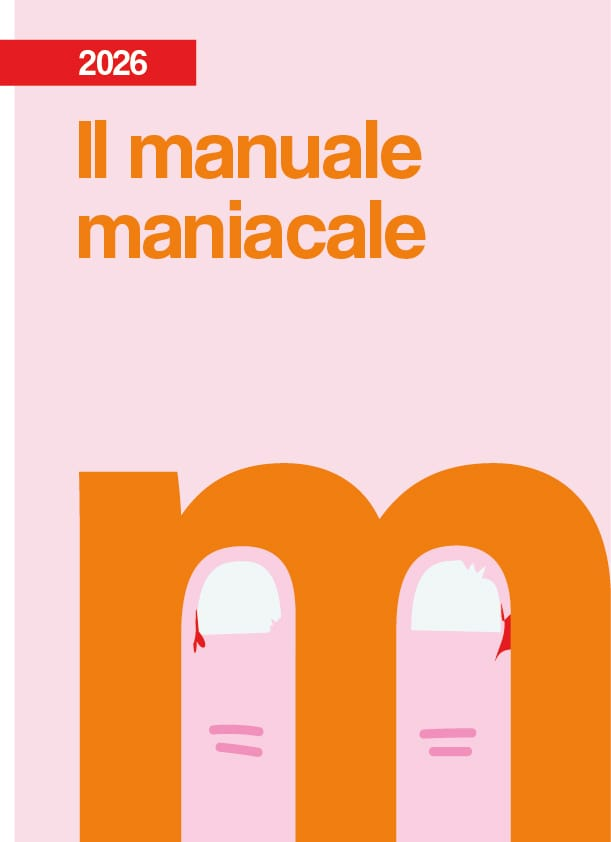
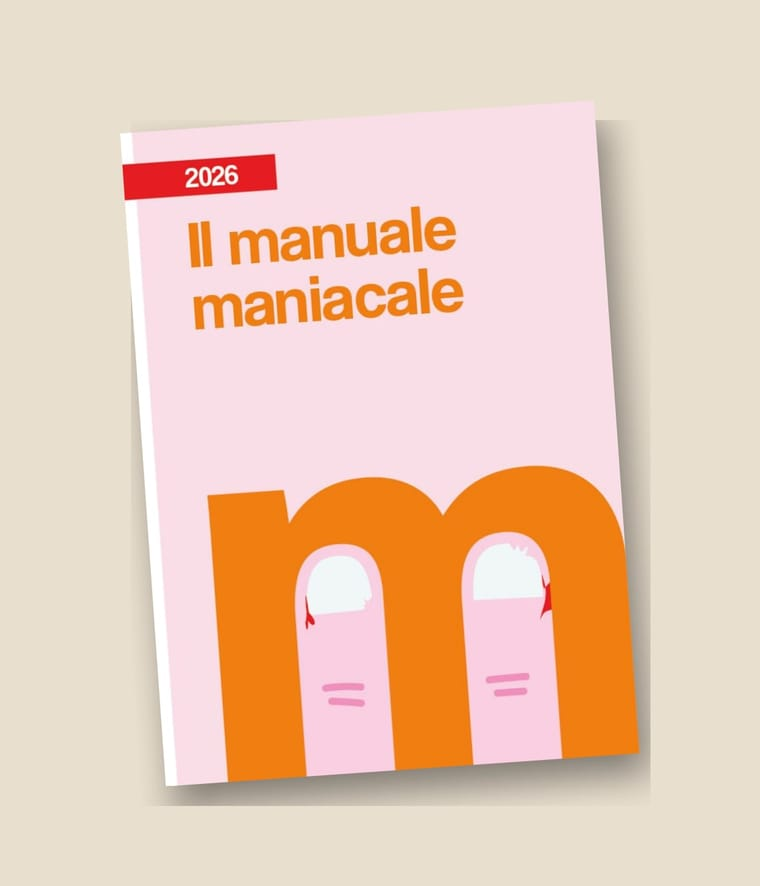
Work section: clickable lightbox, jewel polish, richer galleries
- Gallery images are now buttons that open full-size in a lightbox
  (click backdrop or ESC to close; works on touch); adds an expand badge
  on hover.
- "Jewel" pass on the index: larger lifting thumbnails, tabular index
  numbers, category chips, and a title nudge on hover.
- Move: lead with the login brand moment and the generated editorial
  plan (post cards) instead of only the dense dashboard.
- Berkana: two more business-card shots (five images total).
- Il manuale maniacale: a floated-booklet mockup plus a concept detail
  crop of the bitten-nails "m", so it is no longer a single image.

Claude-Session: https://claude.ai/code/session_01Jnuto5YWZmMVkaLGLvLL8Y

diff --git a/src/App.css b/src/App.css
@@ -1168,33 +1168,48 @@
 }
 .work-row {
   display: grid;
-  grid-template-columns: 52px 148px minmax(0, 1fr) 64px;
+  grid-template-columns: 54px 184px minmax(0, 1fr) 64px;
   align-items: center;
-  gap: clamp(16px, 2.4vw, 32px);
+  gap: clamp(16px, 2.4vw, 34px);
   width: 100%;
-  padding: clamp(16px, 2vw, 24px) clamp(6px, 1vw, 14px);
+  padding: clamp(18px, 2.1vw, 26px) clamp(10px, 1.4vw, 20px);
   border-bottom: 1px solid var(--line);
-  transition: background 0.35s var(--ease-out);
+  border-radius: 18px;
+  transition:
+    background 0.4s var(--ease-out),
+    box-shadow 0.4s var(--ease-out);
 }
 .work-row:hover {
   background: var(--azure-soft);
+  box-shadow: 0 18px 46px -30px rgba(24, 22, 22, 0.5);
 }
 .work-row:focus-visible {
   outline: 3px solid var(--azure-deep);
   outline-offset: -3px;
 }
 .work-num {
-  font-size: 13px;
-  font-weight: 650;
+  font-family: var(--font-display);
+  font-size: 15px;
+  font-weight: 600;
   color: var(--azure-deep);
+  font-variant-numeric: tabular-nums;
+  transition: transform 0.4s var(--ease-out);
+}
+.work-row:hover .work-num {
+  transform: translateY(-4px);
 }
 .work-thumb {
   display: block;
   aspect-ratio: 4 / 3;
   overflow: hidden;
-  border-radius: 12px;
+  border-radius: 14px;
   border: 1px solid var(--line);
   background: var(--pink-soft);
+  box-shadow: 0 1px 2px rgba(24, 22, 22, 0.06);
+  transition: box-shadow 0.45s var(--ease-out);
+}
+.work-row:hover .work-thumb {
+  box-shadow: 0 20px 40px -18px rgba(24, 22, 22, 0.42);
 }
 .work-thumb img {
   width: 100%;
@@ -1208,23 +1223,47 @@
 .work-row-text {
   display: flex;
   flex-direction: column;
-  gap: 6px;
+  gap: 9px;
   text-align: left;
   min-width: 0;
+  transition: transform 0.45s var(--ease-out);
+}
+.work-row:hover .work-row-text {
+  transform: translateX(8px);
 }
 .work-row-title {
   font-family: var(--font-display);
   font-weight: 500;
-  font-size: clamp(24px, 2.6vw, 36px);
-  line-height: 1.1;
+  font-size: clamp(24px, 2.6vw, 37px);
+  line-height: 1.08;
+  letter-spacing: -0.01em;
 }
 .work-row-meta {
+  display: flex;
+  align-items: center;
+  gap: 12px;
+  flex-wrap: wrap;
   font-size: 15px;
   color: var(--ink-70);
 }
-.work-row-meta strong {
-  font-weight: 600;
-  color: var(--ink);
+.work-tag {
+  flex: none;
+  font-size: 11px;
+  font-weight: 650;
+  letter-spacing: 0.09em;
+  text-transform: uppercase;
+  color: var(--azure-deep);
+  padding: 4px 11px;
+  border: 1px solid var(--azure);
+  border-radius: 100px;
+  background: var(--bg);
+  transition: background 0.4s var(--ease-out);
+}
+.work-row:hover .work-tag {
+  background: #fff;
+}
+.work-blurb {
+  min-width: 0;
 }
 .work-row-arrow {
   width: 46px;
@@ -1474,18 +1513,115 @@
   grid-template-columns: 1fr;
   justify-items: center;
 }
-.modal-gallery--single img {
+.modal-gallery--single .modal-shot {
   max-width: min(680px, 100%);
 }
-.modal-gallery img {
+/* every shot is a button: click opens it full-size in the lightbox */
+.modal-shot {
+  position: relative;
+  display: block;
+  width: 100%;
+  padding: 0;
+  background: none;
+  border: 1px solid var(--line);
+  border-radius: 14px;
+  overflow: hidden;
+  cursor: zoom-in;
+  transition: box-shadow 0.4s var(--ease-out);
+}
+.modal-shot img {
+  display: block;
   width: 100%;
   height: auto;
-  border-radius: 14px;
-  border: 1px solid var(--line);
+  transition: transform 0.6s var(--ease-out);
+}
+.modal-shot:hover {
+  box-shadow: 0 18px 40px rgba(24, 22, 22, 0.16);
+}
+.modal-shot:hover img {
+  transform: scale(1.035);
+}
+.modal-shot:focus-visible {
+  outline: 3px solid var(--azure-deep);
+  outline-offset: 2px;
+}
+/* expand badge, invited on hover/focus */
+.modal-shot-zoom {
+  position: absolute;
+  top: 10px;
+  right: 10px;
+  width: 32px;
+  height: 32px;
+  display: grid;
+  place-items: center;
+  border-radius: 50%;
+  background: rgba(24, 22, 22, 0.6);
+  color: #fff;
+  opacity: 0;
+  transform: scale(0.7);
+  transition:
+    opacity 0.3s var(--ease-out),
+    transform 0.3s var(--ease-out);
+}
+.modal-shot-zoom svg {
+  width: 15px;
+  height: 15px;
+}
+.modal-shot:hover .modal-shot-zoom,
+.modal-shot:focus-visible .modal-shot-zoom {
+  opacity: 1;
+  transform: scale(1);
 }
 @media (max-width: 560px) {
   .modal-gallery {
     grid-template-columns: 1fr;
+  }
+}
+
+/* lightbox: full-size image over everything */
+.modal-lightbox {
+  position: fixed;
+  inset: 0;
+  z-index: 200;
+  display: grid;
+  place-items: center;
+  padding: clamp(14px, 4vw, 56px);
+  background: rgba(18, 16, 16, 0.86);
+  cursor: zoom-out;
+}
+.modal-lightbox img {
+  max-width: 100%;
+  max-height: 100%;
+  object-fit: contain;
+  border-radius: 10px;
+  box-shadow: 0 30px 90px rgba(0, 0, 0, 0.55);
+}
+.modal-lightbox-close {
+  position: absolute;
+  top: clamp(14px, 3vw, 28px);
+  right: clamp(14px, 3vw, 28px);
+  width: 46px;
+  height: 46px;
+  display: grid;
+  place-items: center;
+  border-radius: 50%;
+  background: rgba(255, 255, 255, 0.16);
+  color: #fff;
+  transition:
+    background 0.3s var(--ease-out),
+    transform 0.3s var(--ease-out);
+}
+.modal-lightbox-close svg {
+  width: 20px;
+  height: 20px;
+}
+.modal-lightbox-close:hover {
+  background: rgba(255, 255, 255, 0.3);
+  transform: rotate(90deg);
+}
+@media (prefers-reduced-motion: reduce) {
+  .modal-shot img {
+    transition: none;
   }
 }
 

diff --git a/src/components/ProjectModal.jsx b/src/components/ProjectModal.jsx
@@ -1,5 +1,5 @@
-import { useEffect, useRef } from 'react'
-import { motion } from 'framer-motion'
+import { useEffect, useRef, useState } from 'react'
+import { motion, AnimatePresence } from 'framer-motion'
 import { EASE } from './Reveal.jsx'
 import { BrandAsterisk } from './Doodles.jsx'
 
@@ -14,6 +14,21 @@ import { BrandAsterisk } from './Doodles.jsx'
  */
 export default function ProjectModal({ project, onClose }) {
   const panelRef = useRef(null)
+  const [zoom, setZoom] = useState(null)
+
+  // when the lightbox is open, ESC closes it first (capture phase, so it
+  // runs before the modal's own ESC handler and never closes the modal)
+  useEffect(() => {
+    if (!zoom) return
+    const onKey = (e) => {
+      if (e.key === 'Escape') {
+        e.stopPropagation()
+        setZoom(null)
+      }
+    }
+    document.addEventListener('keydown', onKey, true)
+    return () => document.removeEventListener('keydown', onKey, true)
+  }, [zoom])
 
   useEffect(() => {
     const opener = document.activeElement
@@ -123,16 +138,69 @@ export default function ProjectModal({ project, onClose }) {
 
         <div className={`modal-gallery ${single ? 'modal-gallery--single' : ''}`}>
           {project.gallery.map((img, i) => (
-            <img
+            <button
+              type="button"
               key={img.src}
-              src={img.src}
-              alt={img.alt}
-              loading={i < 2 ? 'eager' : 'lazy'}
-              decoding="async"
-            />
+              className="modal-shot"
+              onClick={() => setZoom(img)}
+              aria-label={`Enlarge image: ${img.alt}`}
+            >
+              <img
+                src={img.src}
+                alt={img.alt}
+                loading={i < 2 ? 'eager' : 'lazy'}
+                decoding="async"
+              />
+              <span className="modal-shot-zoom" aria-hidden="true">
+                <svg viewBox="0 0 24 24">
+                  <path
+                    d="M4 9V4H9 M15 4H20V9 M20 15V20H15 M9 20H4V15"
+                    fill="none"
+                    stroke="currentColor"
+                    strokeWidth="2"
+                    strokeLinecap="round"
+                    strokeLinejoin="round"
+                  />
+                </svg>
+              </span>
+            </button>
           ))}
         </div>
       </motion.div>
+
+      {/* lightbox: any gallery image opens full-size, click anywhere or ESC to close */}
+      <AnimatePresence>
+        {zoom && (
+          <motion.div
+            className="modal-lightbox"
+            onClick={() => setZoom(null)}
+            initial={{ opacity: 0 }}
+            animate={{ opacity: 1 }}
+            exit={{ opacity: 0 }}
+            transition={{ duration: 0.18, ease: 'easeOut' }}
+          >
+            <button className="modal-lightbox-close" aria-label="Close image">
+              <svg viewBox="0 0 24 24" aria-hidden="true">
+                <path
+                  d="M5 5 L19 19 M19 5 L5 19"
+                  stroke="currentColor"
+                  strokeWidth="2.4"
+                  strokeLinecap="round"
+                  fill="none"
+                />
+              </svg>
+            </button>
+            <motion.img
+              src={zoom.src}
+              alt={zoom.alt}
+              initial={{ scale: 0.96 }}
+              animate={{ scale: 1 }}
+              exit={{ scale: 0.98 }}
+              transition={{ duration: 0.22, ease: EASE }}
+            />
+          </motion.div>
+        )}
+      </AnimatePresence>
     </div>
   )
 }

diff --git a/src/data/projects.js b/src/data/projects.js
@@ -12,16 +12,16 @@ export const PROJECTS = [
     title: 'Move',
     blurb: 'A social planner that turns a stack of clients into a month of posts.',
     role: 'Product design · UI · Build',
-    cover: '/work/move-dash-thumb.jpg',
-    coverAlt: 'Move editorial planner dashboard, dark UI with acid-green accents',
+    cover: '/work/move-login-thumb.jpg',
+    coverAlt: 'Move login screen, acid-green wordmark on near-black',
     description: [
       'Move is a tool I built for the part of the job nobody enjoys: planning a month of social content for a stack of different clients. Each client keeps a profile - who they are, how they talk, what they sell - and Move turns that into a ready editorial plan in minutes.',
-      'One dark, fast workspace: a dashboard that flags who needs a new plan, client cards with their own history, and a generator that drafts the calendar so the time goes into editing, not staring at an empty grid.',
+      'One dark, fast workspace: a dashboard that flags who needs a new plan, and a generator that drafts a whole month of posts - dates, formats, captions and visual notes - so the time goes into editing, not staring at an empty grid.',
     ],
     gallery: [
+      { src: '/work/move-plan.jpg', alt: 'A generated editorial plan: post cards with date, format, caption and visual notes' },
       { src: '/work/move-dash.jpg', alt: 'Move dashboard: client cards, metrics and activity sparklines' },
       { src: '/work/move-generate.jpg', alt: 'Move plan generator, picking a client to start from' },
-      { src: '/work/move-clients.jpg', alt: 'Move client list, each with its own profile' },
     ],
     links: [
       { label: 'Live tool', cta: 'Open Move', href: 'https://move-editorial-planner.netlify.app' },
@@ -61,7 +61,9 @@ export const PROJECTS = [
     ],
     gallery: [
       { src: '/work/berkana-stationery.jpg', alt: 'Berkana letterhead, cards and folder on a neutral surface' },
-      { src: '/work/berkana-cards.jpg', alt: 'Berkana business cards, navy and cream, front and back' },
+      { src: '/work/berkana-cards.jpg', alt: 'Berkana business cards, navy and cream, held' },
+      { src: '/work/berkana-cards2.jpg', alt: 'Berkana cards: a cream front beside a navy stack' },
+      { src: '/work/berkana-cards3.jpg', alt: 'Berkana cards held against a teal backdrop' },
       { src: '/work/berkana-rsvp.jpg', alt: 'Berkana opening invitation with a duotone-blue architecture photo' },
     ],
   },
@@ -98,7 +100,8 @@ export const PROJECTS = [
       'Flat colour, one clean display face, a single visual pun - the kind of cover that makes you pick the thing up.',
     ],
     gallery: [
-      { src: '/work/manuale.jpg', alt: 'Il manuale maniacale cover in pink, orange and red' },
+      { src: '/work/manuale.jpg', alt: 'Il manuale maniacale, the cover as a printed booklet' },
+      { src: '/work/manuale-detail.jpg', alt: 'Detail: the m drawn as two fingers with bitten nails' },
     ],
   },
   {

diff --git a/src/components/Work.jsx b/src/components/Work.jsx
@@ -34,7 +34,8 @@ function Row({ project, onOpen }) {
         <span className="work-row-text">
           <span className="work-row-title">{title}</span>
           <span className="work-row-meta">
-            <strong>{category}</strong> - {blurb}
+            <span className="work-tag">{category}</span>
+            <span className="work-blurb">{blurb}</span>
           </span>
         </span>
         <SqArrow className="work-row-arrow" inView={false} />